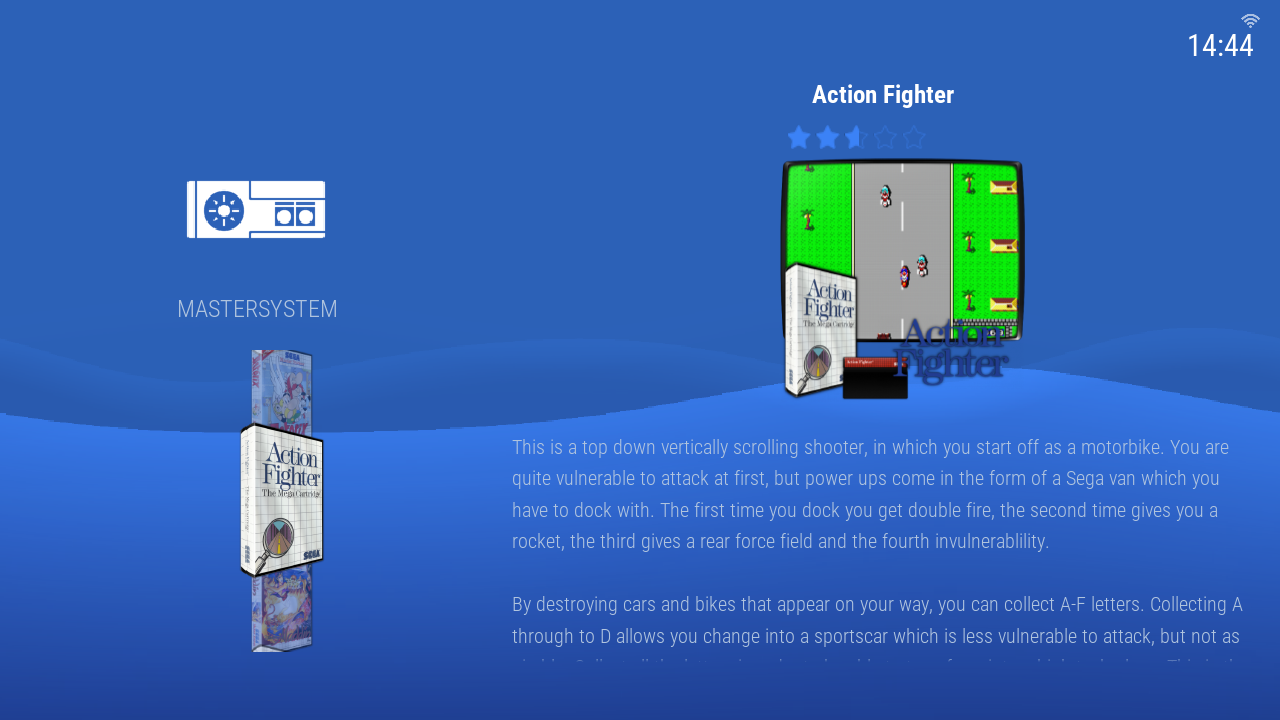
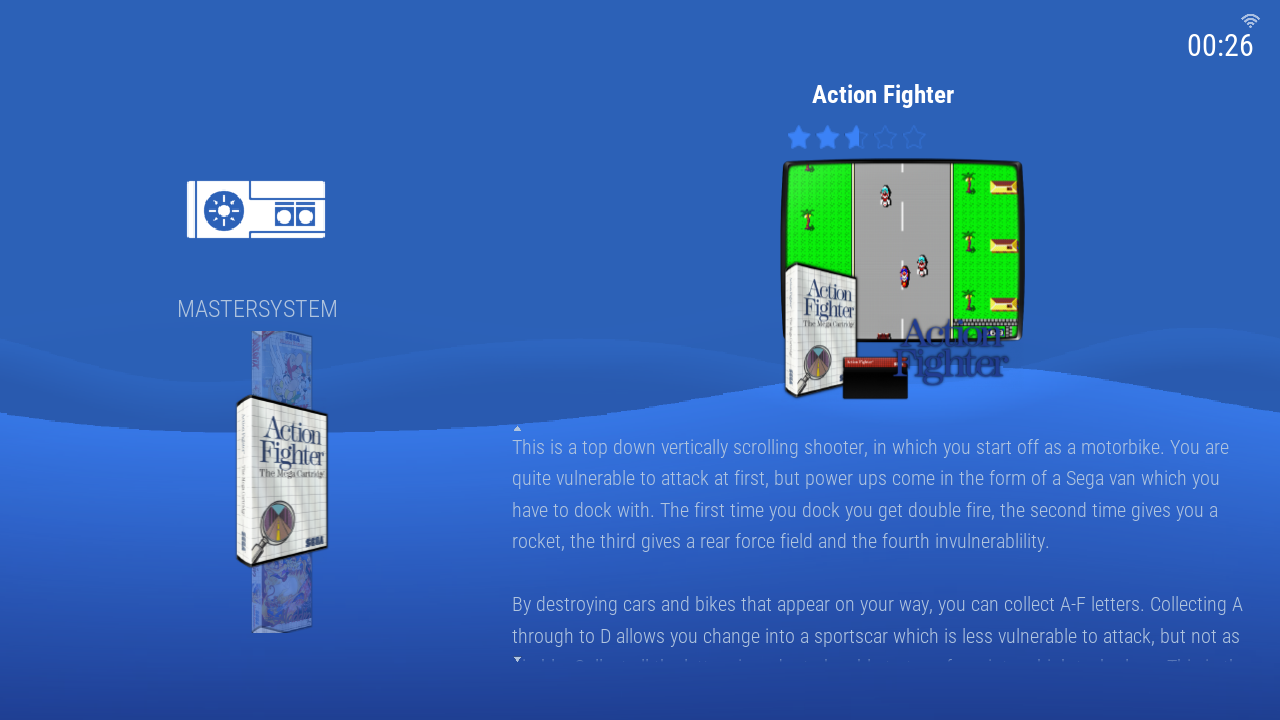
docs: bump README + screenshots for v0.10
- Status: v0.9.2 -> v0.10
- Status paragraph updated to mention continuous wave (S6),
  description chevrons (X2), and the Glyph + Percentage Battery
  variant (ST1).
- Battery customisation knob copy updated for the new
  three-value subset (Glyph + Percentage / Glyph / Hide).
- Screenshots caption and battery prose updated to reflect the
  new default Glyph + Percentage variant.
- Known limitations: wave-reset bullet was already removed in
  Task 1's commit; confirmed absent.
- All 15 baseline screenshots regenerated (5 ratios x 3 views) at
  Battery: Hide, matching v0.9.x convention.

Changed region(s): [[0.1875, 0.4583, 0.2812, 0.9167], [0.9062, 0.0306, 1.0, 0.0917]]

diff --git a/README.md b/README.md
@@ -2,11 +2,11 @@
 
 A PSP XMB-style theme for [batocera-emulationstation](https://github.com/batocera-linux/batocera-emulationstation), built and tuned for **Knulli Scarab on the TrimUI Brick** (4:3, 1024×768).
 
-> Status: **v0.9.2** — PSP-style variant only. Five tuned aspect ratios (4:3, 16:9, 3:2, 1:1, 8:7), with constant gap-to-icon ratio for the system carousel across all ratios. Twelve user-selectable PSP-month colorsets, always-on PSP XMB wave animation (identical on the system and gamelist views), XMB cross layout, two gamelist styles — text list or boxart carousel — sharing a widened title / rating / video / description panel, a boxart carousel sized and positioned under the system icon, optional game counter, a colorset-themed EmulationStation menu, universal system icon coverage. Soft white halo behind the selected system carousel icon (v0.9.2 redesigned as a diffuse center-bright gaussian sized 2.5× the icon, so the visible portion around the icon reads as a glow rather than a ring), a PSP-style battery glyph in the top-right status bar with a `Battery: Show/Hide` toggle (Hide shifts the clock right to fill the slot for no-battery devices). Default colorset is January Blue.
+> Status: **v0.10** — PSP-style variant only. Five tuned aspect ratios (4:3, 16:9, 3:2, 1:1, 8:7), with constant gap-to-icon ratio for the system carousel across all ratios. Twelve user-selectable PSP-month colorsets, **continuous PSP XMB wave animation that no longer resets on system carousel navigation**, XMB cross layout, two gamelist styles — text list or boxart carousel — sharing a widened title / rating / video / description panel with **upper and lower scroll-affordance chevrons**, a boxart carousel sized and positioned under the system icon, optional game counter, a colorset-themed EmulationStation menu, universal system icon coverage. Soft white halo behind the selected system carousel icon, **a PSP-style battery glyph plus optional numeric percentage in the top-right status bar** with a three-value Battery subset (Hide / Glyph / Glyph + Percentage). Default colorset is January Blue.
 
 ## Screenshots
 
-> _Rendered with **Battery: Hide** (no battery slot). The default **Battery: Show** variant reserves room for the battery glyph on devices that report one — see Customization below._
+> _Rendered with **Battery: Hide** (no battery slot). The default **Battery: Glyph + Percentage** variant shows the battery glyph plus numeric charge level on devices that report one — see Customization below._
 
 ### System view (XMB cross + system carousel)
 
@@ -58,11 +58,11 @@ Four configurable knobs, all under **UI Settings → Theme Configuration**:
 - **PSP Color** — colorset (twelve PSP-month palettes; default January Blue)
 - **Game Count** — whether the system-name caption stays on the name only (Hide, default) or also cycles to an "X GAMES" counter (Show)
 - **Gamelist View Style** — show each system's games as a text list (`detailed`) or as a vertical boxart carousel (`gamecarousel`); `automatic` uses the theme default. Both styles share the same title / rating / video / description info panel.
-- **Battery** — `Show` (default) reserves a slot in the top-right status bar for the PSP-style battery glyph; `Hide` removes the slot and shifts the clock right to fill the space. Pick `Hide` if your device has no battery, or if you've disabled ES's Show Battery Status setting.
+- **Battery** — `Glyph + Percentage` (default) shows the battery icon plus the numeric charge percentage in the top-right status bar (shifts the clock left to make room); `Glyph` shows the icon only at the v0.9.x position; `Hide` removes the battery slot entirely and shifts the clock right to fill the space. Pick `Glyph` if you find the percentage cluttered; pick `Hide` on docked / desktop setups with no battery.
 
 The wave animation is always on with no opt-out. No per-system or per-device overrides — the theme intentionally ships minimal.
 
-The battery glyph in the top-right (next to the clock) appears automatically on devices that report a battery and have **Main Menu → UI Settings → Show Battery Status** enabled, when the theme's Battery knob is set to `Show`. Set the Battery knob to `Hide` on docked / desktop setups so the clock occupies the otherwise-empty slot.
+The battery glyph (and optional percentage) in the top-right (next to the clock) appears automatically on devices that report a battery and have **Main Menu → UI Settings → Show Battery Status** enabled, when the theme's Battery knob is set to `Glyph` or `Glyph + Percentage`. Set the Battery knob to `Hide` on docked / desktop setups so the clock occupies the otherwise-empty slot.
 
 ## How the wave is built
 
